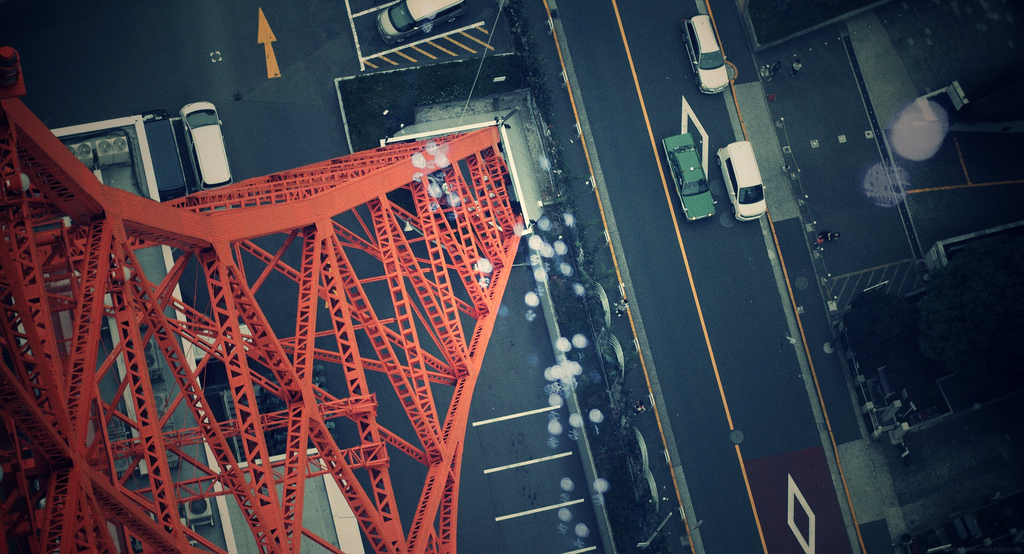
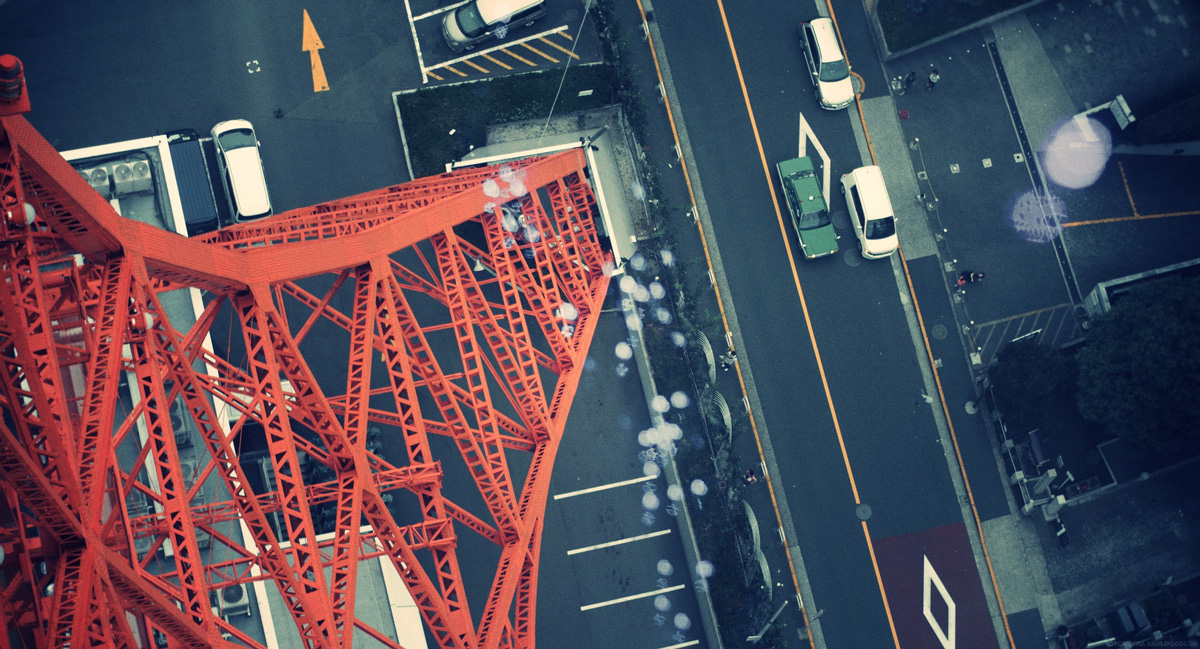
Use tower as cover image

diff --git a/_sass/_styles.scss b/_sass/_styles.scss
@@ -300,7 +300,7 @@ header.site-header nav {
         height: 25vh;
         width: 100%;
         max-height: 200px;
-        background-position: bottom center;
+        background-position: center center;
         background-size: cover;
         vertical-align: middle;
         -webkit-background-size: cover;

diff --git a/index.md b/index.md
@@ -5,7 +5,7 @@ title:
 description: I&rsquo;m Jordan Suchow, a cognitive scientist studying minds, brains, and machines.
 tags: [suchow, portfolio, reseach, cognitive science]
 image:
-  feature: cone-bike.jpg
+  feature: japan/tower.jpg
 ---
 
 My research uses a diverse set of tools from cognitive science, machine learning, network science, and evolutionary biology to better understand the dynamics of human cognition &mdash; how we learn to detect and recognize objects, how we maintain memories of sights and sounds, and how our thoughts and ideas evolve as they are transmitted from one person to the next.
